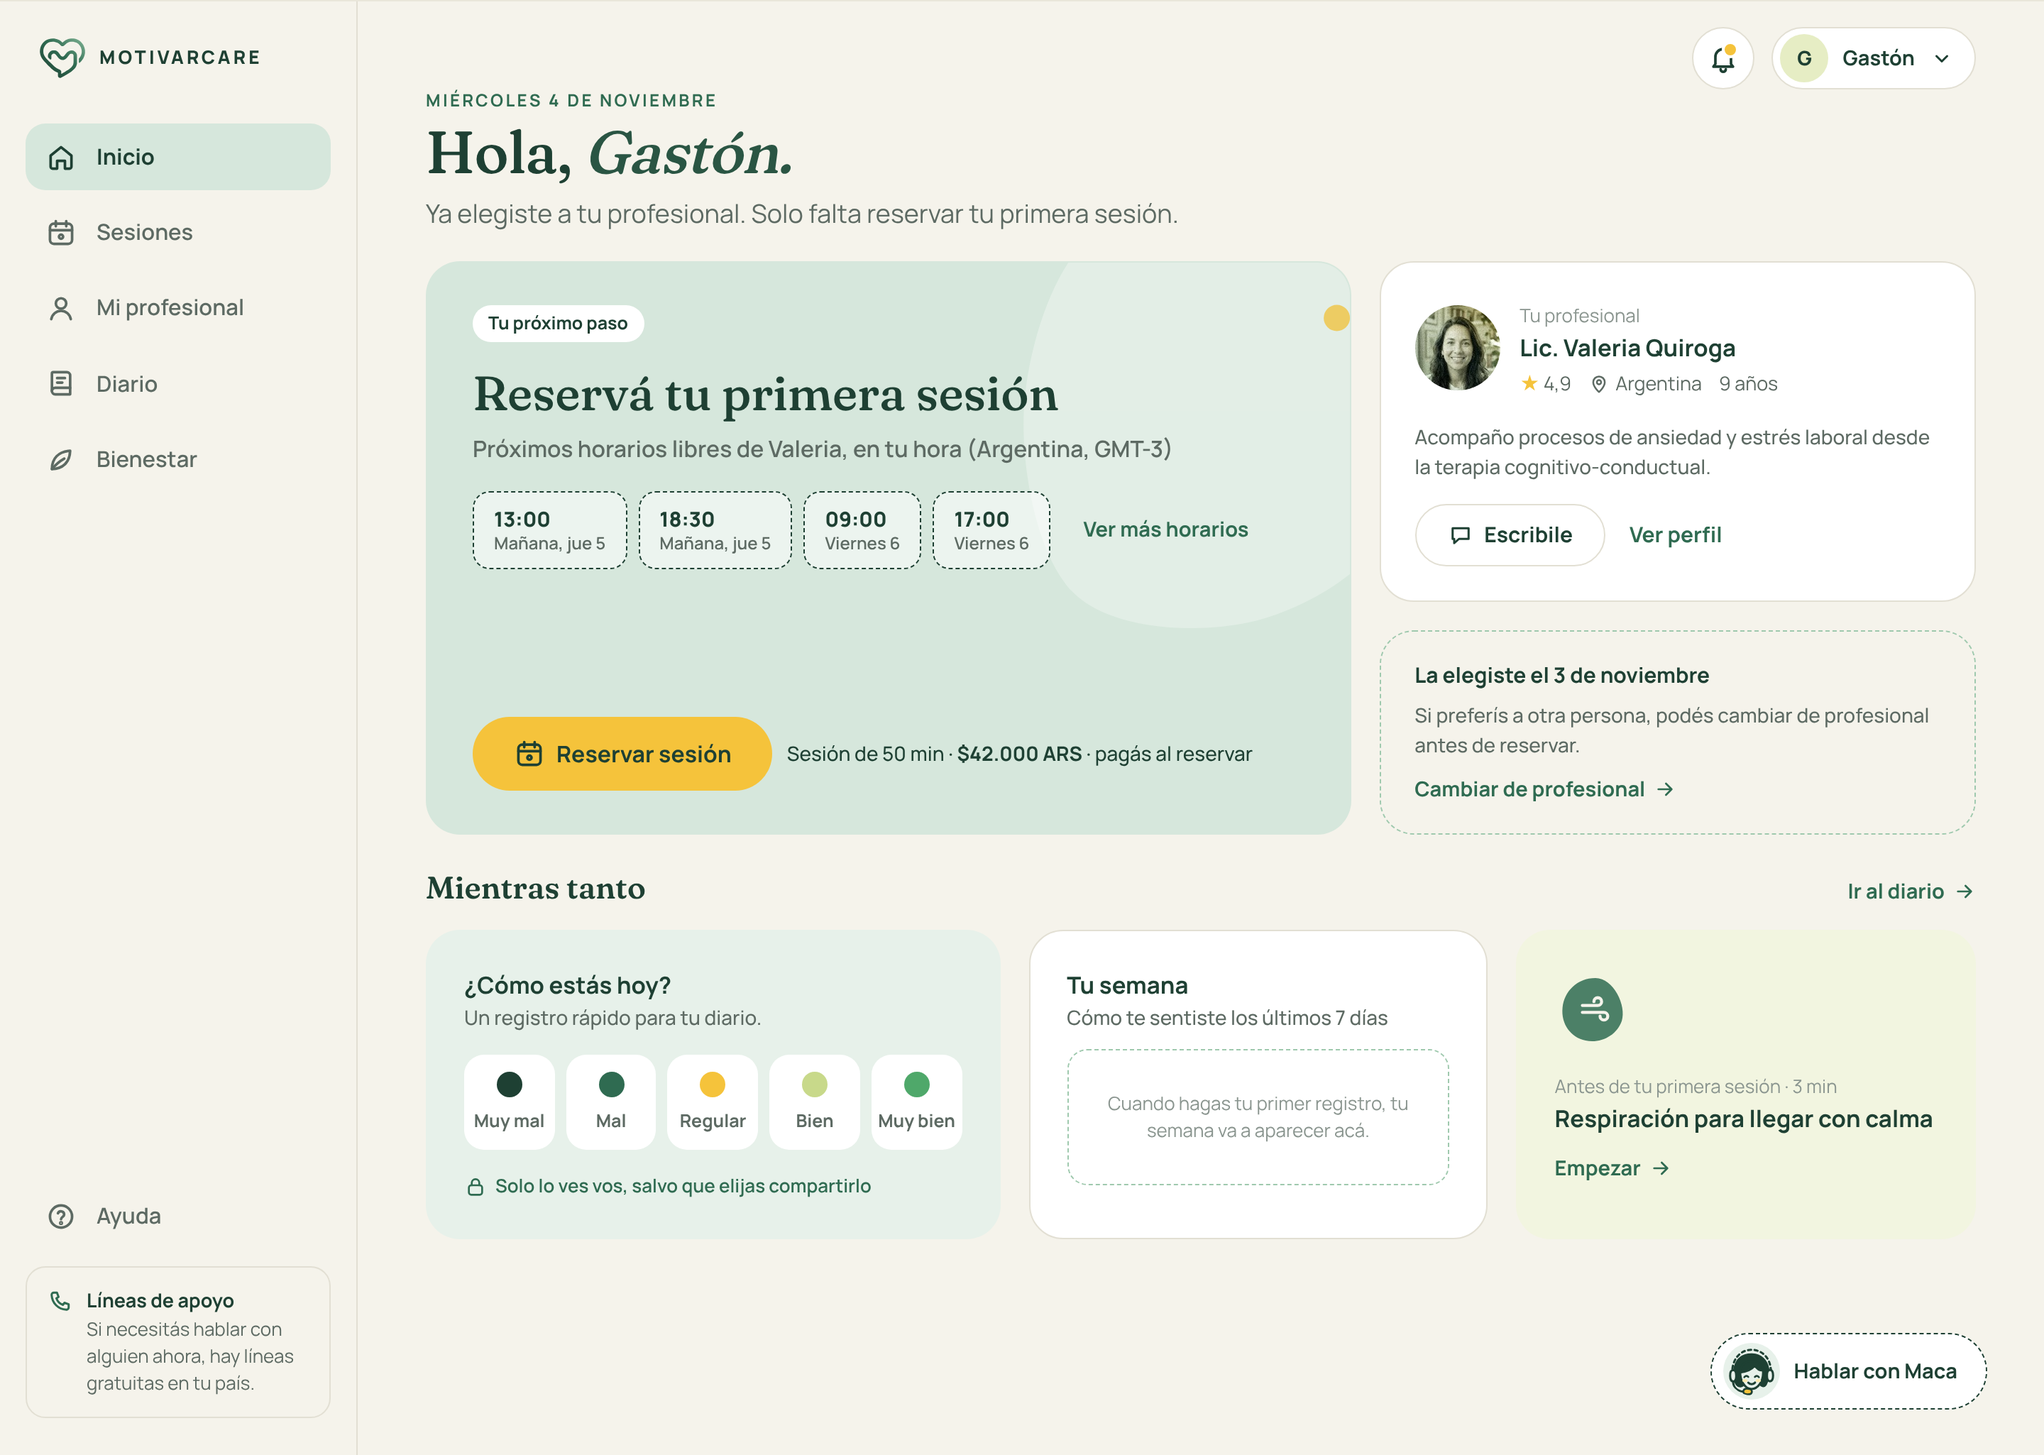
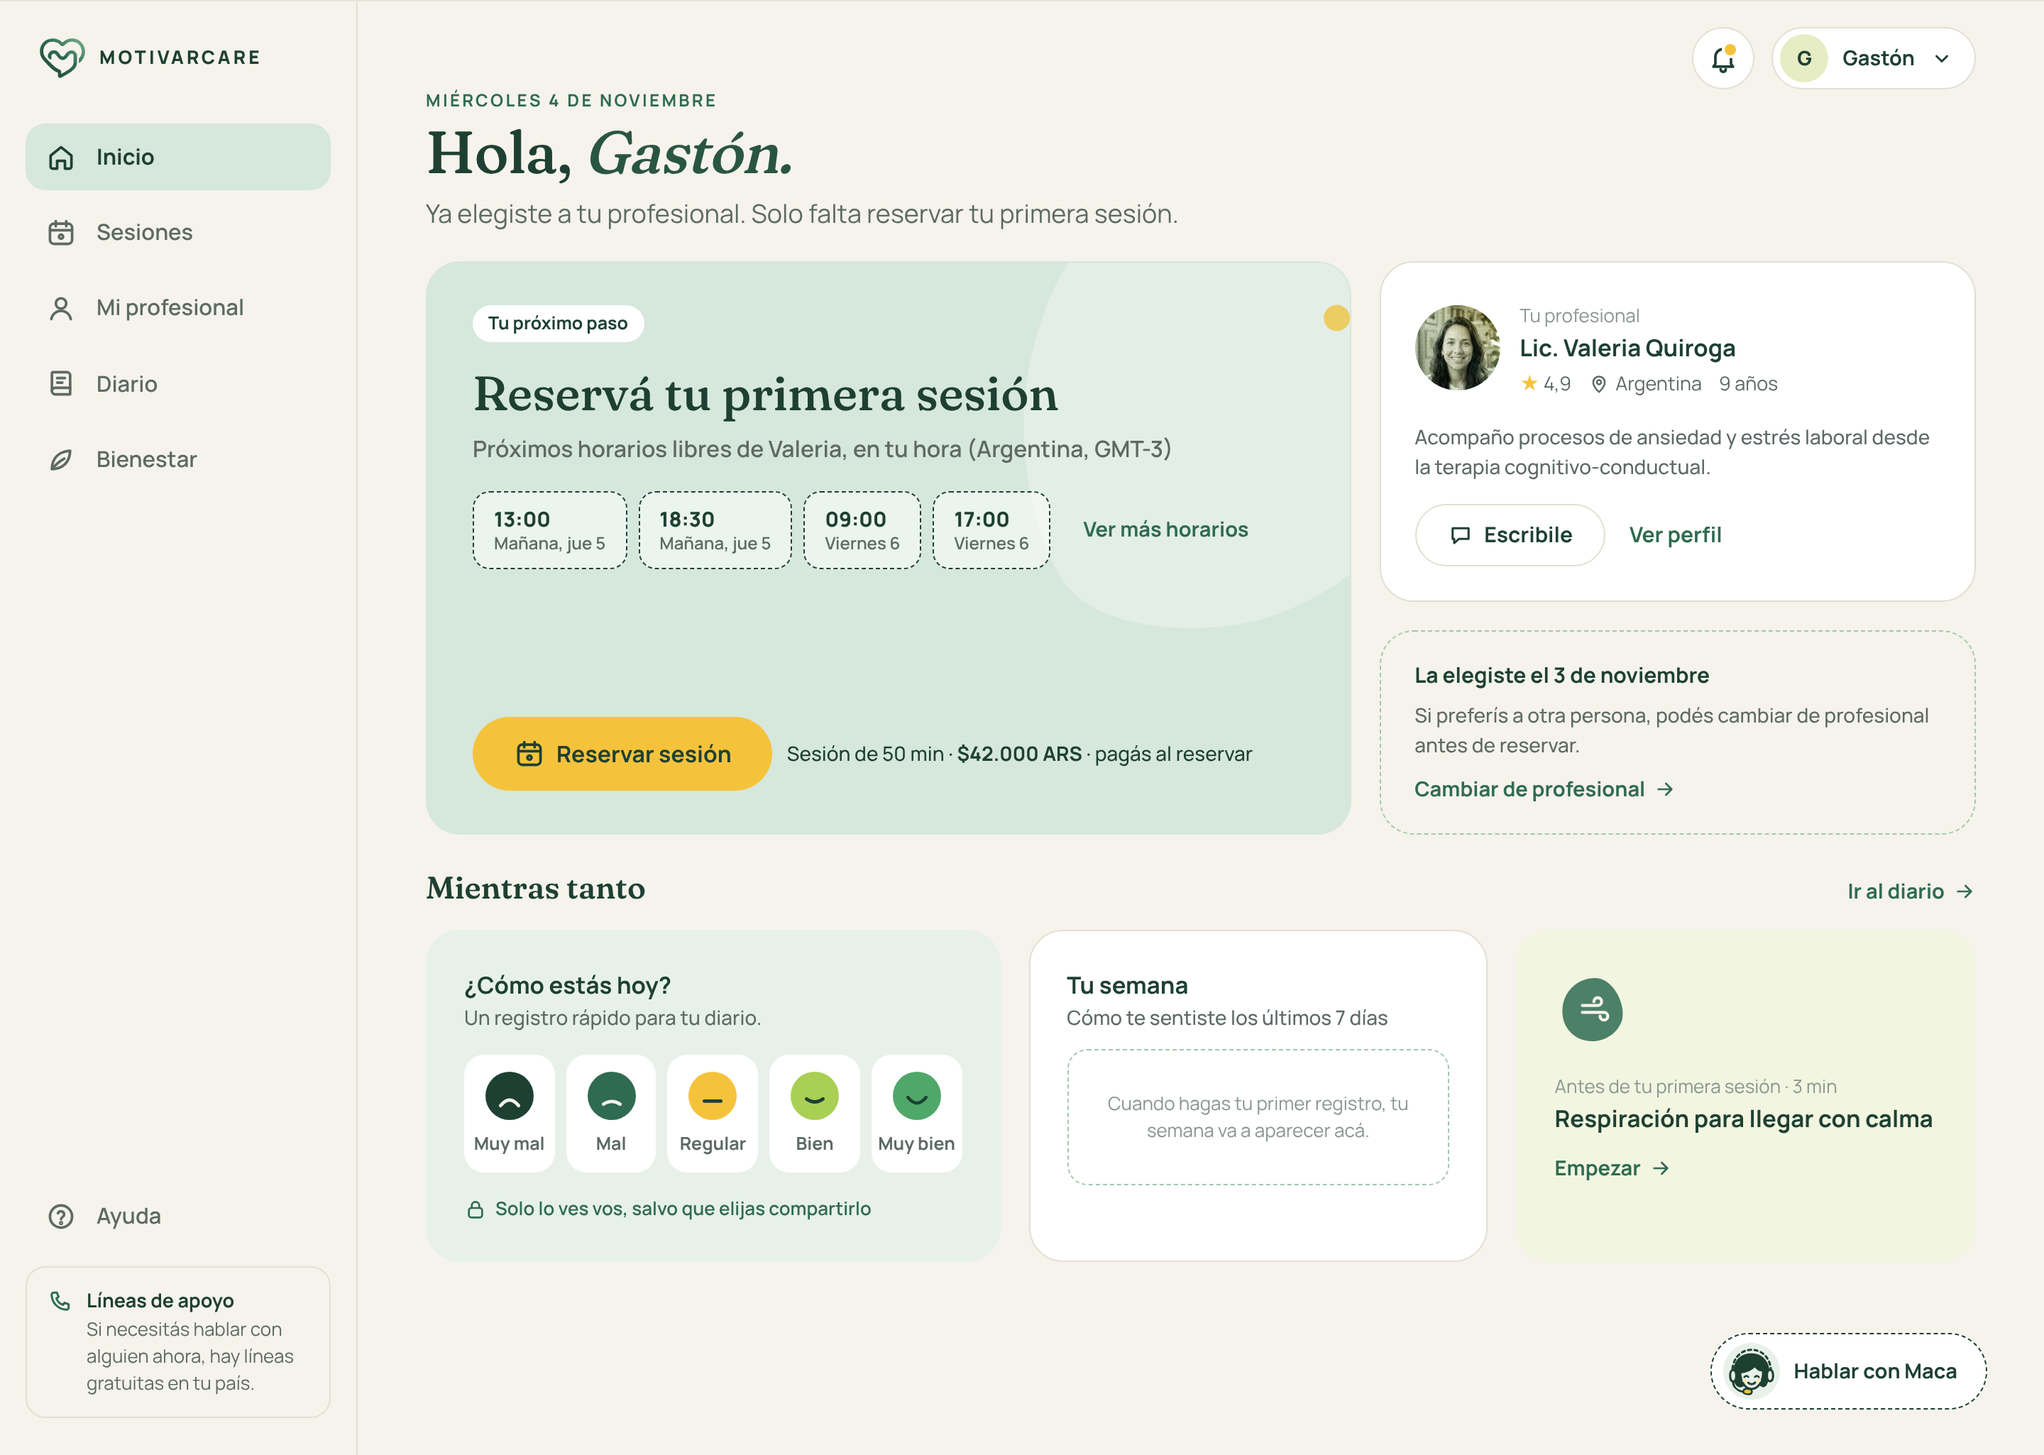
App del usuario: escala de ánimo con boca y verde lima más vivo para Bien
Claude-Session: https://claude.ai/code/session_01WU1DRuLLvKJwMVuiPWLics

Changed region(s): [[0.2188, 0.718, 0.4688, 0.8429]]

diff --git a/web/public/app-usuario/index.html b/web/public/app-usuario/index.html
@@ -31,7 +31,7 @@
   --salvia: #d6e7dc; --salvia-fuerte: #9fc9ae; --menta: #e7f1ea; --lima: #e6edc4; --lima-fuerte: #c8d98a; --lima-suave: #f2f5e0;
   --amarillo: #f5c33b; --amarillo-suave: #fbe9b0;
   /* Escala de ánimo: de muy mal (bosque casi negro) a muy bien (verde vivo), con amarillo en el medio */
-  --animo-1: #1e4033; --animo-2: #2f6b51; --animo-3: #f5c33b; --animo-4: #c8d98a; --animo-5: #4fa86a;
+  --animo-1: #1e4033; --animo-2: #2f6b51; --animo-3: #f5c33b; --animo-4: #a9cf54; --animo-5: #4fa86a;
   --e1: #1e4033; --e2: #2f6b51; --e3: #5e9677; --e4: #8dba9e; --e5: #b7cf95;
   --rg: 24px; --rm: 18px; --rc: 10px;
   --serif: 'Fraunces', Georgia, serif; --sans: 'Manrope', system-ui, sans-serif;
@@ -147,7 +147,8 @@ body { background: #e9e6da; font-family: var(--sans); color: var(--tinta); paddi
 .animo { display: flex; flex-direction: column; gap: 16px; }
 .opciones-animo { display: flex; gap: 8px; }
 .opciones-animo span { flex: 1; display: flex; flex-direction: column; align-items: center; gap: 8px; padding: 12px 4px 10px; border-radius: 14px; background: var(--superficie); font-size: 12.5px; font-weight: 700; color: var(--tinta-suave); }
-.opciones-animo span i { width: 18px; height: 18px; border-radius: 50%; }
+.opciones-animo .cara { width: 34px; height: 34px; display: block; }
+.tel .opciones-animo .cara { width: 30px; height: 30px; }
 .privado { display: inline-flex; align-items: center; gap: 6px; font-size: 13px; font-weight: 600; color: var(--verde-medio); }
 .privado .ico { width: 16px; height: 16px; }
 .grafico { display: flex; flex-direction: column; gap: 12px; }
@@ -368,7 +369,7 @@ ul.lista-simple { padding: 0; }
         <div class="grilla-entre">
           <article class="tarjeta menta animo">
             <div><b style="color:var(--bosque);font-size:16.5px">¿Cómo estás hoy?</b><p class="peq">Un registro rápido para tu diario.</p></div>
-            <div class="opciones-animo"><span><i style="background:var(--animo-1)"></i>Muy mal</span><span><i style="background:var(--animo-2)"></i>Mal</span><span><i style="background:var(--animo-3)"></i>Regular</span><span><i style="background:var(--animo-4)"></i>Bien</span><span><i style="background:var(--animo-5)"></i>Muy bien</span></div>
+            <div class="opciones-animo"><span><svg class="cara" viewBox="0 0 32 32" aria-hidden="true"><circle cx="16" cy="16" r="16" fill="var(--animo-1)"/><path d="M10 22.5 Q16 15 22 22.5" fill="none" stroke="#F5F3EB" stroke-width="2.2" stroke-linecap="round"/></svg>Muy mal</span><span><svg class="cara" viewBox="0 0 32 32" aria-hidden="true"><circle cx="16" cy="16" r="16" fill="var(--animo-2)"/><path d="M10.5 21.5 Q16 18 21.5 21.5" fill="none" stroke="#F5F3EB" stroke-width="2.2" stroke-linecap="round"/></svg>Mal</span><span><svg class="cara" viewBox="0 0 32 32" aria-hidden="true"><circle cx="16" cy="16" r="16" fill="var(--animo-3)"/><path d="M10.5 19.5 L21.5 19.5" fill="none" stroke="#1E4033" stroke-width="2.2" stroke-linecap="round"/></svg>Regular</span><span><svg class="cara" viewBox="0 0 32 32" aria-hidden="true"><circle cx="16" cy="16" r="16" fill="var(--animo-4)"/><path d="M10.5 18 Q16 22 21.5 18" fill="none" stroke="#1E4033" stroke-width="2.2" stroke-linecap="round"/></svg>Bien</span><span><svg class="cara" viewBox="0 0 32 32" aria-hidden="true"><circle cx="16" cy="16" r="16" fill="var(--animo-5)"/><path d="M10 17 Q16 24.5 22 17" fill="none" stroke="#1E4033" stroke-width="2.2" stroke-linecap="round"/></svg>Muy bien</span></div>
             <span class="privado"><svg class="ico"><use href="#i-candado"/></svg>Solo lo ves vos, salvo que elijas compartirlo</span>
           </article>
           <article class="tarjeta" style="display:flex;flex-direction:column;gap:14px">
@@ -511,7 +512,7 @@ ul.lista-simple { padding: 0; }
         <div class="grilla-entre">
           <article class="tarjeta menta animo">
             <div><b style="color:var(--bosque);font-size:16.5px">¿Cómo estás hoy?</b><p class="peq">Un registro rápido para tu diario.</p></div>
-            <div class="opciones-animo"><span><i style="background:var(--animo-1)"></i>Muy mal</span><span><i style="background:var(--animo-2)"></i>Mal</span><span><i style="background:var(--animo-3)"></i>Regular</span><span><i style="background:var(--animo-4)"></i>Bien</span><span><i style="background:var(--animo-5)"></i>Muy bien</span></div>
+            <div class="opciones-animo"><span><svg class="cara" viewBox="0 0 32 32" aria-hidden="true"><circle cx="16" cy="16" r="16" fill="var(--animo-1)"/><path d="M10 22.5 Q16 15 22 22.5" fill="none" stroke="#F5F3EB" stroke-width="2.2" stroke-linecap="round"/></svg>Muy mal</span><span><svg class="cara" viewBox="0 0 32 32" aria-hidden="true"><circle cx="16" cy="16" r="16" fill="var(--animo-2)"/><path d="M10.5 21.5 Q16 18 21.5 21.5" fill="none" stroke="#F5F3EB" stroke-width="2.2" stroke-linecap="round"/></svg>Mal</span><span><svg class="cara" viewBox="0 0 32 32" aria-hidden="true"><circle cx="16" cy="16" r="16" fill="var(--animo-3)"/><path d="M10.5 19.5 L21.5 19.5" fill="none" stroke="#1E4033" stroke-width="2.2" stroke-linecap="round"/></svg>Regular</span><span><svg class="cara" viewBox="0 0 32 32" aria-hidden="true"><circle cx="16" cy="16" r="16" fill="var(--animo-4)"/><path d="M10.5 18 Q16 22 21.5 18" fill="none" stroke="#1E4033" stroke-width="2.2" stroke-linecap="round"/></svg>Bien</span><span><svg class="cara" viewBox="0 0 32 32" aria-hidden="true"><circle cx="16" cy="16" r="16" fill="var(--animo-5)"/><path d="M10 17 Q16 24.5 22 17" fill="none" stroke="#1E4033" stroke-width="2.2" stroke-linecap="round"/></svg>Muy bien</span></div>
             <span class="privado"><svg class="ico"><use href="#i-candado"/></svg>Solo lo ves vos, salvo que elijas compartirlo</span>
           </article>
           <article class="tarjeta grafico">
@@ -563,7 +564,7 @@ ul.lista-simple { padding: 0; }
     </article>
     <article class="tarjeta menta animo" style="gap:12px">
       <div><b style="color:var(--bosque);font-size:16px">¿Cómo estás hoy?</b></div>
-      <div class="opciones-animo" style="gap:6px"><span style="font-size:11px;padding:10px 2px 8px"><i style="background:var(--animo-1)"></i>Muy mal</span><span style="font-size:11px;padding:10px 2px 8px"><i style="background:var(--animo-2)"></i>Mal</span><span style="font-size:11px;padding:10px 2px 8px"><i style="background:var(--animo-3)"></i>Regular</span><span style="font-size:11px;padding:10px 2px 8px"><i style="background:var(--animo-4)"></i>Bien</span><span style="font-size:11px;padding:10px 2px 8px"><i style="background:var(--animo-5)"></i>Muy bien</span></div>
+      <div class="opciones-animo" style="gap:6px"><span style="font-size:11px;padding:10px 2px 8px"><svg class="cara" viewBox="0 0 32 32" aria-hidden="true"><circle cx="16" cy="16" r="16" fill="var(--animo-1)"/><path d="M10 22.5 Q16 15 22 22.5" fill="none" stroke="#F5F3EB" stroke-width="2.2" stroke-linecap="round"/></svg>Muy mal</span><span style="font-size:11px;padding:10px 2px 8px"><svg class="cara" viewBox="0 0 32 32" aria-hidden="true"><circle cx="16" cy="16" r="16" fill="var(--animo-2)"/><path d="M10.5 21.5 Q16 18 21.5 21.5" fill="none" stroke="#F5F3EB" stroke-width="2.2" stroke-linecap="round"/></svg>Mal</span><span style="font-size:11px;padding:10px 2px 8px"><svg class="cara" viewBox="0 0 32 32" aria-hidden="true"><circle cx="16" cy="16" r="16" fill="var(--animo-3)"/><path d="M10.5 19.5 L21.5 19.5" fill="none" stroke="#1E4033" stroke-width="2.2" stroke-linecap="round"/></svg>Regular</span><span style="font-size:11px;padding:10px 2px 8px"><svg class="cara" viewBox="0 0 32 32" aria-hidden="true"><circle cx="16" cy="16" r="16" fill="var(--animo-4)"/><path d="M10.5 18 Q16 22 21.5 18" fill="none" stroke="#1E4033" stroke-width="2.2" stroke-linecap="round"/></svg>Bien</span><span style="font-size:11px;padding:10px 2px 8px"><svg class="cara" viewBox="0 0 32 32" aria-hidden="true"><circle cx="16" cy="16" r="16" fill="var(--animo-5)"/><path d="M10 17 Q16 24.5 22 17" fill="none" stroke="#1E4033" stroke-width="2.2" stroke-linecap="round"/></svg>Muy bien</span></div>
       <span class="privado" style="font-size:12px"><svg class="ico"><use href="#i-candado"/></svg>Solo lo ves vos, salvo que elijas compartirlo</span>
     </article>
   </div>
@@ -650,7 +651,7 @@ ul.lista-simple { padding: 0; }
           <article class="tarjeta menta animo">
             <div><b style="color:var(--bosque);font-size:16.5px">¿Cómo estás hoy?</b><p class="peq">Un registro rápido para tu diario.</p></div>
             <div class="opciones-animo">
-              <span><i style="background:var(--animo-1)"></i>Muy mal</span><span><i style="background:var(--animo-2)"></i>Mal</span><span><i style="background:var(--animo-3)"></i>Regular</span><span><i style="background:var(--animo-4)"></i>Bien</span><span><i style="background:var(--animo-5)"></i>Muy bien</span>
+              <span><svg class="cara" viewBox="0 0 32 32" aria-hidden="true"><circle cx="16" cy="16" r="16" fill="var(--animo-1)"/><path d="M10 22.5 Q16 15 22 22.5" fill="none" stroke="#F5F3EB" stroke-width="2.2" stroke-linecap="round"/></svg>Muy mal</span><span><svg class="cara" viewBox="0 0 32 32" aria-hidden="true"><circle cx="16" cy="16" r="16" fill="var(--animo-2)"/><path d="M10.5 21.5 Q16 18 21.5 21.5" fill="none" stroke="#F5F3EB" stroke-width="2.2" stroke-linecap="round"/></svg>Mal</span><span><svg class="cara" viewBox="0 0 32 32" aria-hidden="true"><circle cx="16" cy="16" r="16" fill="var(--animo-3)"/><path d="M10.5 19.5 L21.5 19.5" fill="none" stroke="#1E4033" stroke-width="2.2" stroke-linecap="round"/></svg>Regular</span><span><svg class="cara" viewBox="0 0 32 32" aria-hidden="true"><circle cx="16" cy="16" r="16" fill="var(--animo-4)"/><path d="M10.5 18 Q16 22 21.5 18" fill="none" stroke="#1E4033" stroke-width="2.2" stroke-linecap="round"/></svg>Bien</span><span><svg class="cara" viewBox="0 0 32 32" aria-hidden="true"><circle cx="16" cy="16" r="16" fill="var(--animo-5)"/><path d="M10 17 Q16 24.5 22 17" fill="none" stroke="#1E4033" stroke-width="2.2" stroke-linecap="round"/></svg>Muy bien</span>
             </div>
             <span class="privado"><svg class="ico"><use href="#i-candado"/></svg>Solo lo ves vos, salvo que elijas compartirlo</span>
           </article>
@@ -660,7 +661,7 @@ ul.lista-simple { padding: 0; }
               <g stroke="#E2DFD3" stroke-width="1"><line x1="10" y1="20" x2="290" y2="20"/><line x1="10" y1="55" x2="290" y2="55"/><line x1="10" y1="90" x2="290" y2="90"/></g>
               <polyline points="20,72 63,60 106,78 149,48 192,52 235,34 278,40" fill="none" stroke="#2F6B51" stroke-width="2.5" stroke-linecap="round" stroke-linejoin="round"/>
               <g fill="#2F6B51"><circle cx="20" cy="72" r="4"/><circle cx="63" cy="60" r="4"/><circle cx="106" cy="78" r="4"/><circle cx="149" cy="48" r="4"/><circle cx="192" cy="52" r="4"/><circle cx="235" cy="34" r="4"/></g>
-              <circle cx="278" cy="40" r="6" fill="#C8D98A" stroke="#1E4033" stroke-width="2"/>
+              <circle cx="278" cy="40" r="6" fill="#A9CF54" stroke="#1E4033" stroke-width="2"/>
               <text x="278" y="22" text-anchor="middle" font-family="Manrope" font-weight="700" font-size="11" fill="#1E4033">Bien</text>
               <g font-family="Manrope" font-size="10.5" fill="#8A958F" text-anchor="middle"><text x="20" y="107">jue</text><text x="63" y="107">vie</text><text x="106" y="107">sáb</text><text x="149" y="107">dom</text><text x="192" y="107">lun</text><text x="235" y="107">mar</text><text x="278" y="107">mié</text></g>
             </svg>
@@ -708,7 +709,7 @@ ul.lista-simple { padding: 0; }
     <article class="tarjeta menta animo" style="gap:12px">
       <div><b style="color:var(--bosque);font-size:16px">¿Cómo estás hoy?</b></div>
       <div class="opciones-animo" style="gap:6px">
-        <span style="font-size:11px;padding:10px 2px 8px"><i style="background:var(--animo-1)"></i>Muy mal</span><span style="font-size:11px;padding:10px 2px 8px"><i style="background:var(--animo-2)"></i>Mal</span><span style="font-size:11px;padding:10px 2px 8px"><i style="background:var(--animo-3)"></i>Regular</span><span style="font-size:11px;padding:10px 2px 8px"><i style="background:var(--animo-4)"></i>Bien</span><span style="font-size:11px;padding:10px 2px 8px"><i style="background:var(--animo-5)"></i>Muy bien</span>
+        <span style="font-size:11px;padding:10px 2px 8px"><svg class="cara" viewBox="0 0 32 32" aria-hidden="true"><circle cx="16" cy="16" r="16" fill="var(--animo-1)"/><path d="M10 22.5 Q16 15 22 22.5" fill="none" stroke="#F5F3EB" stroke-width="2.2" stroke-linecap="round"/></svg>Muy mal</span><span style="font-size:11px;padding:10px 2px 8px"><svg class="cara" viewBox="0 0 32 32" aria-hidden="true"><circle cx="16" cy="16" r="16" fill="var(--animo-2)"/><path d="M10.5 21.5 Q16 18 21.5 21.5" fill="none" stroke="#F5F3EB" stroke-width="2.2" stroke-linecap="round"/></svg>Mal</span><span style="font-size:11px;padding:10px 2px 8px"><svg class="cara" viewBox="0 0 32 32" aria-hidden="true"><circle cx="16" cy="16" r="16" fill="var(--animo-3)"/><path d="M10.5 19.5 L21.5 19.5" fill="none" stroke="#1E4033" stroke-width="2.2" stroke-linecap="round"/></svg>Regular</span><span style="font-size:11px;padding:10px 2px 8px"><svg class="cara" viewBox="0 0 32 32" aria-hidden="true"><circle cx="16" cy="16" r="16" fill="var(--animo-4)"/><path d="M10.5 18 Q16 22 21.5 18" fill="none" stroke="#1E4033" stroke-width="2.2" stroke-linecap="round"/></svg>Bien</span><span style="font-size:11px;padding:10px 2px 8px"><svg class="cara" viewBox="0 0 32 32" aria-hidden="true"><circle cx="16" cy="16" r="16" fill="var(--animo-5)"/><path d="M10 17 Q16 24.5 22 17" fill="none" stroke="#1E4033" stroke-width="2.2" stroke-linecap="round"/></svg>Muy bien</span>
       </div>
       <span class="privado" style="font-size:12px"><svg class="ico"><use href="#i-candado"/></svg>Solo lo ves vos, salvo que elijas compartirlo</span>
     </article>

diff --git a/06-app-usuario/README.md b/06-app-usuario/README.md
@@ -70,7 +70,7 @@ Primera versión visual de la propuesta, con pocas pantallas, para validar el en
 | Maca va abajo a la derecha, como en la landing y como cualquier chat: píldora "Hablar con Maca" en escritorio y círculo sobre la barra inferior en el teléfono, siempre con borde punteado. El contenido deja libre esa esquina, y Maca no aparece en la reserva ni durante la videollamada | El tour con Maca inalcanzable en tablet y teléfono (caso 03, H17); "lo humano primero; la IA, en su lugar" |
 | Las líneas de apoyo están siempre a mano en la barra lateral, sin alarmar | Página de líneas de apoyo sin estilo y con un número de EE. UU. primero (caso 03, H4) |
 | El registro rápido del diario aclara que es privado salvo que se elija compartirlo | Privacidad preseleccionada en "compartida" (caso 05, H1) |
-| La escala de ánimo va de "Muy mal" en bosque casi negro (`#1E4033`) a "Muy bien" en un verde vivo (`#4FA86A`), con "Regular" en amarillo (`#F5C33B`) en el medio. "Mal" usa `#2F6B51` y "Bien", lima fuerte (`#C8D98A`). El verde vivo todavía no está en el design system | Lectura intuitiva del estado de ánimo: lo mejor, más luminoso |
+| La escala de ánimo va de "Muy mal" en bosque casi negro (`#1E4033`) a "Muy bien" en un verde vivo (`#4FA86A`), con "Regular" en amarillo (`#F5C33B`) en el medio. "Mal" usa `#2F6B51` y "Bien", un verde lima vivo (`#A9CF54`). Cada opción es un círculo con una línea de boca que va de la tristeza a la sonrisa, sin ojos para que no parezca un emoji. El verde vivo y el verde lima vivo todavía no están en el design system | Lectura intuitiva del estado de ánimo: lo mejor, más luminoso |
 | El gráfico de la semana usa un solo color y los puntos están en su valor | Punto mal dibujado en "Evolución emocional" (caso 05, H2) |
 | El Inicio cambia en tres momentos: sin profesional (los cuatro pasos de la primera sesión y sugeridos con su compatibilidad), con profesional y sin sesiones (sus próximos horarios libres y "Reservar sesión"), y con la sesión por empezar ("Entrar a la sesión") | Home larga e igual para todos (caso 03, H9) |
 | Para quien no tiene profesional, el precio está visible desde el inicio y no se habla de "sesión de prueba". Una tarjeta acompaña a quien hace terapia por primera vez | "Sesión de prueba" que parece gratis (caso 03, H23); criterio "hablarle a quien busca ayuda" |
